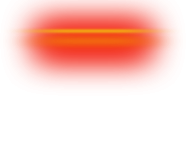
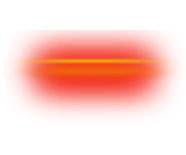
Microwave, glow on ready, no more sliding graphics

diff --git a/src/main/kotlin/com/codingame/game/view/QueueView.kt b/src/main/kotlin/com/codingame/game/view/QueueView.kt
@@ -20,18 +20,9 @@ class QueueView {
     CustomerView()
   }
 
-  val failureBox = graphicEntityModule.createRectangle().apply {
-    width = QueueView.xRange.last - QueueView.xRange.first
-    height = QueueView.yRange.last - QueueView.yRange.first
-    fillColor = 0xff0000
-    isVisible = false
-    zIndex = -1000
-  }
-
   val wholeGroup = graphicEntityModule.createGroup().apply {
     for(c in customerViews)
       add(c.group)
-    add(failureBox)
     x = QueueView.xRange.first
     y = QueueView.yRange.first
   }
@@ -41,12 +32,6 @@ class QueueView {
         queue.activeCustomers[index].let {
           custView.update(it, index)
       }
-    }
-
-    if(failed != failureBox.isVisible){
-      failureBox.isVisible = failed
-      graphicEntityModule.commitEntityState(0.0, failureBox)
-      failed = false
     }
   }
 
@@ -161,7 +146,8 @@ class QueueView {
       tooltipModule.updateExtraTooltipText(group, customer.dish.describe())
       backgroundBox.setFillColor(waitingColour, Curve.IMMEDIATE).setAlpha(0.0, Curve.IMMEDIATE)
 
-      group.apply { y = index * (187 + 20); x = 36 }
+      group.setX(36, Curve.IMMEDIATE).setY(index * (187 + 20), Curve.IMMEDIATE)
+//      group.apply { y = index * (187 + 20); x = 36; }
 
       awardText.text = baseAward.toString()
 

diff --git a/src/main/kotlin/com/codingame/game/view/BoardView.kt b/src/main/kotlin/com/codingame/game/view/BoardView.kt
@@ -88,7 +88,7 @@ class BoardView(baseBoard: Board, matchPlayers: List<Player>) {
                 is ChoppingBoard -> image = "board02.png"
                 is GeneralCrate -> image = "bowl.png"
                 is Oven -> {
-                  image = if (cell.x == 0) "oven_left.png" else if (cell.x == 10) "oven_right.png" else "oven_top.png"
+                  image = if (cell.x == 0) "oven_left.png" else if (cell.x == 10) "oven_right.png" else "microwave.png"
 //                baseHeight = if (cell.x == 0 || cell.x == 10) 131 else 99
 //                baseWidth = if (cell.x == 0 || cell.x == 10) 140 else 132
                   baseHeight = cellHeight
@@ -262,7 +262,7 @@ class BoardView(baseBoard: Board, matchPlayers: List<Player>) {
         isVisible = showOvenOverlay
         image = ovenImage
       }
-      ovenGlowSprite!!.isVisible = it.state is OvenState.Baking
+      ovenGlowSprite!!.isVisible = it.state is OvenState.Baking || it.state is OvenState.Ready
     }
 
 

diff --git a/src/main/kotlin/com/codingame/game/view/ScoresView.kt b/src/main/kotlin/com/codingame/game/view/ScoresView.kt
@@ -3,6 +3,7 @@ package com.codingame.game.view
 import com.codingame.game.Player
 import com.codingame.game.Referee
 import com.codingame.game.ScoreBoard
+import com.codingame.gameengine.module.entities.Curve
 import com.codingame.gameengine.module.entities.Text
 
 class ScoresView(matchPlayers: List<Player>) {
@@ -61,6 +62,7 @@ class ScoresView(matchPlayers: List<Player>) {
       }
     }
     scores.forEach { player, entry ->
+      graphicEntityModule.commitEntityState(0.0, playerScoreViews[player]!!.group)
       playerScoreViews[player]!!.update(entry)
 
       playerScoreViews[player]!!.messageText.text = (player.message)
